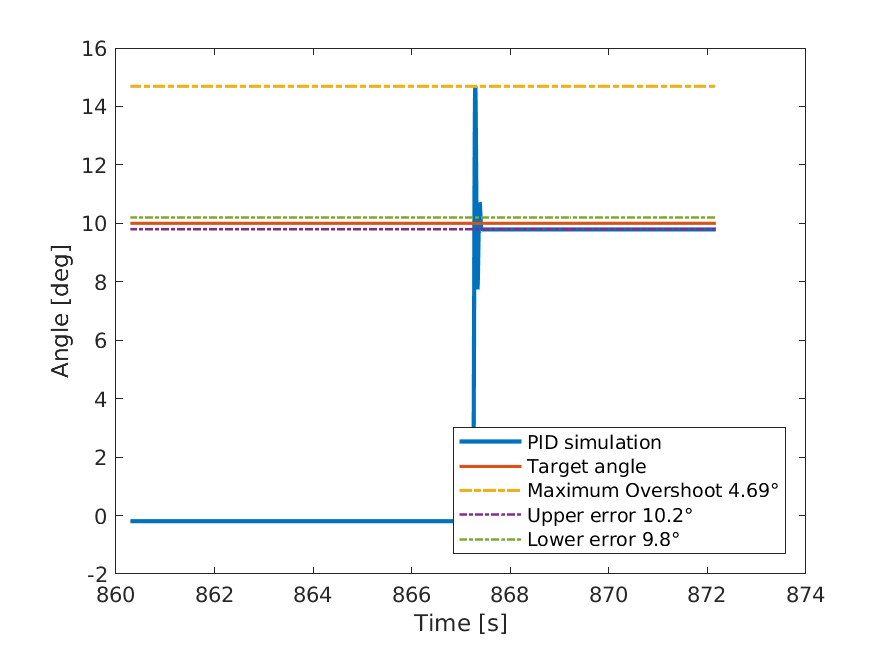
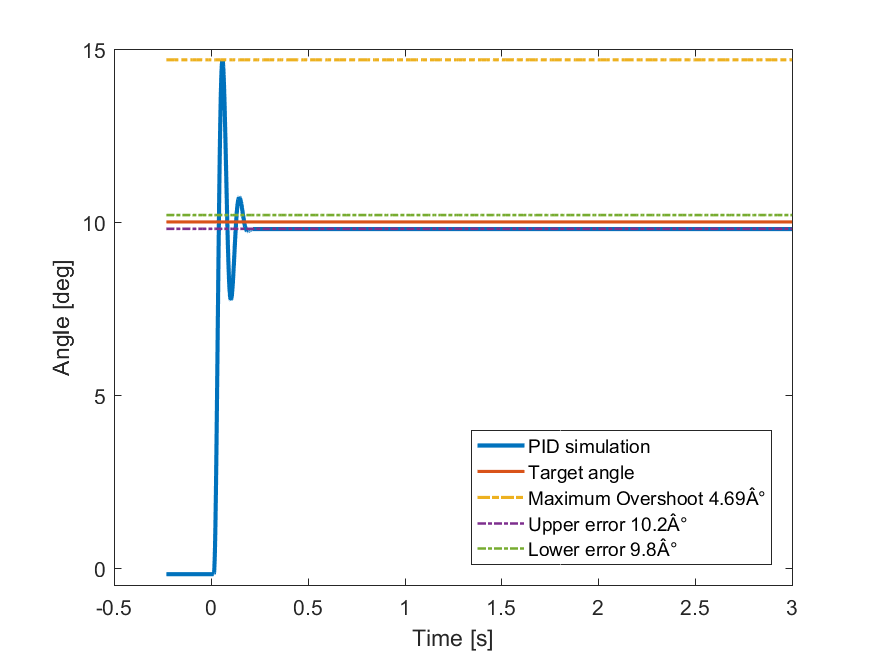
Change of the PID plots

diff --git a/LogFiles/PID_Encoder/plot_2.m b/LogFiles/PID_Encoder/plot_2.m
@@ -9,7 +9,7 @@
 % Auto-generated by MATLAB on 2018/04/14 17:48:42
 
 %% Initialize variables.
-filename = '/home/manu/Dropbox/EPFL Spring 2018/Haptic HRI/HapticHumanRobotInterfaces-Lab/LogFiles/PID_Encoder/p05i0d0003.csv';
+filename = 'C:\Users\Hannes\Desktop\Master\HapticHumanRobotInterfaces\LogFiles\PID_Encoder\p05i0d0003.csv';
 delimiter = ';';
 startRow = 2;
 
@@ -63,8 +63,8 @@ clearvars filename delimiter startRow formatSpec fileID dataArray ans;
 
 %% Generate plots
 
-time = p05i0d0003.timestamps;
-theta = p05i0d0003.paddle_pos_filtdeg;
+time = p05i0d0003.timestamps(6721:end)-867.23;
+theta = p05i0d0003.paddle_pos_filtdeg(6721:end);
 
 figure()
 plt = plot(time,theta,'LineWidth',2)
@@ -76,6 +76,8 @@ plot(time, ones(size(time))*10.2, '-.','LineWidth',1.25)
 legend('PID simulation','Target angle','Maximum Overshoot 4.69°','Upper error 10.2°','Lower error 9.8°','Location','southeast')
 xlabel('Time [s]')
 ylabel('Angle [deg]')
+xlim([-0.5 3])
+ylim([-0.5 15])
 saveas(plt,'Simulink_PID_encoder2.png')
 
 t_init = find(theta>theta(1),1);

diff --git a/LogFiles/PID_Encoder/plot_3.m b/LogFiles/PID_Encoder/plot_3.m
@@ -9,7 +9,7 @@
 % Auto-generated by MATLAB on 2018/04/14 17:50:18
 
 %% Initialize variables.
-filename = '/home/manu/Dropbox/EPFL Spring 2018/Haptic HRI/HapticHumanRobotInterfaces-Lab/LogFiles/PID_Encoder/p05i0d0008.csv';
+filename = 'C:\Users\Hannes\Desktop\Master\HapticHumanRobotInterfaces\LogFiles\PID_Encoder\p05i0d0008.csv';
 delimiter = ';';
 startRow = 2;
 
@@ -63,8 +63,8 @@ clearvars filename delimiter startRow formatSpec fileID dataArray ans;
 
 %% Generate plots
 
-time = p05i0d0008.timestamps;
-theta = p05i0d0008.paddle_pos_filtdeg;
+time = p05i0d0008.timestamps(3118:end)-815.55;
+theta = p05i0d0008.paddle_pos_filtdeg(3118:end);
 
 figure()
 plt = plot(time,theta,'LineWidth',2)
@@ -76,6 +76,8 @@ plot(time, ones(size(time))*10.2, '-.','LineWidth',1.25)
 legend('PID simulation','Target angle','Maximum Overshoot 0.65°','Upper error 10.2°','Lower error 9.8°','Location','southeast')
 xlabel('Time [s]')
 ylabel('Angle [deg]')
+xlim([-0.5 3])
+ylim([-0.5 14])
 saveas(plt,'Simulink_PID_encoder3.png')
 
 t_init = find(theta>theta(1),1);

diff --git a/LogFiles/PID_Encoder/plot_4.m b/LogFiles/PID_Encoder/plot_4.m
@@ -9,7 +9,7 @@
 % Auto-generated by MATLAB on 2018/04/14 17:52:56
 
 %% Initialize variables.
-filename = '/home/manu/Dropbox/EPFL Spring 2018/Haptic HRI/HapticHumanRobotInterfaces-Lab/LogFiles/PID_Encoder/p05i0001d0008.csv';
+filename = 'C:\Users\Hannes\Desktop\Master\HapticHumanRobotInterfaces\LogFiles\PID_Encoder\p05i0001d0008.csv';
 delimiter = ';';
 startRow = 2;
 
@@ -63,8 +63,8 @@ clearvars filename delimiter startRow formatSpec fileID dataArray ans;
 
 %% Generate plots
 
-time = p05i0001d0008.timestamps;
-theta = p05i0001d0008.paddle_pos_filtdeg;
+time = p05i0001d0008.timestamps(5567:end)-790.37;
+theta = p05i0001d0008.paddle_pos_filtdeg(5567:end);
 
 figure()
 plt = plot(time,theta,'LineWidth',2)
@@ -76,6 +76,8 @@ plot(time, ones(size(time))*10.2, '-.','LineWidth',1.25)
 legend('PID simulation','Target angle','Maximum Overshoot 1.82°','Upper error 10.2°','Lower error 9.8°','Location','southeast')
 xlabel('Time [s]')
 ylabel('Angle [deg]')
+xlim([-0.5 3])
+ylim([-0.5 14])
 saveas(plt,'Simulink_PID_encoder4.png')
 
 

diff --git a/LogFiles/PID_Hall/plot_3.m b/LogFiles/PID_Hall/plot_3.m
@@ -9,7 +9,7 @@
 % Auto-generated by MATLAB on 2018/04/14 17:50:18
 
 %% Initialize variables.
-filename = '/home/manu/Dropbox/EPFL Spring 2018/Haptic HRI/HapticHumanRobotInterfaces-Lab/LogFiles/PID_Hall/p05i0d0008.csv';
+filename = 'C:\Users\Hannes\Desktop\Master\HapticHumanRobotInterfaces\LogFiles\PID_Hall\p05i0d0008.csv';
 delimiter = ';';
 startRow = 2;
 
@@ -63,8 +63,8 @@ clearvars filename delimiter startRow formatSpec fileID dataArray ans;
 
 %% Generate plots
 
-time = p05i0d0008.timestamps;
-theta = p05i0d0008.paddle_pos_filtdeg;
+time = p05i0d0008.timestamps(2333:8343)-522.71;
+theta = p05i0d0008.paddle_pos_filtdeg(2333:8343);
 theta(time>528) = [];
 time(time>528) = [];
 
@@ -78,6 +78,8 @@ plot(time, ones(size(time))*10.2, '-.','LineWidth',1.25)
 legend('PID simulation','Target angle','Maximum Overshoot 0.52°','Upper error 10.2°','Lower error 9.8°','Location','southeast')
 xlabel('Time [s]')
 ylabel('Angle [deg]')
+xlim([-0.5 3])
+ylim([-0.5 14])
 saveas(plt,'Simulink_PID_hall3.png')
 
 t_init = find(theta>0.16,1);

diff --git a/LogFiles/PID_Hall/plot_2.m b/LogFiles/PID_Hall/plot_2.m
@@ -9,7 +9,7 @@
 % Auto-generated by MATLAB on 2018/04/14 17:48:42
 
 %% Initialize variables.
-filename = '/home/manu/Dropbox/EPFL Spring 2018/Haptic HRI/HapticHumanRobotInterfaces-Lab/LogFiles/PID_Hall/p05i0d0003.csv';
+filename = 'C:\Users\Hannes\Desktop\Master\HapticHumanRobotInterfaces\LogFiles\PID_Hall/p05i0d0003.csv';
 delimiter = ';';
 startRow = 2;
 
@@ -63,8 +63,8 @@ clearvars filename delimiter startRow formatSpec fileID dataArray ans;
 
 %% Generate plots
 
-time = p05i0d0003.timestamps;
-theta = p05i0d0003.paddle_pos_filtdeg;
+time = p05i0d0003.timestamps(3252:end)-471.9;
+theta = p05i0d0003.paddle_pos_filtdeg(3252:end);
 
 figure()
 plt = plot(time,theta,'LineWidth',2)
@@ -76,6 +76,8 @@ plot(time, ones(size(time))*10.2, '-.','LineWidth',1.25)
 legend('PID simulation','Target angle','Maximum Overshoot 4.42°','Upper error 10.2°','Lower error 9.8°','Location','southeast')
 xlabel('Time [s]')
 ylabel('Angle [deg]')
+xlim([-0.5 3])
+ylim([-0.5 15])
 saveas(plt,'Simulink_PID_hall2.png')
 
 t_init = find(theta>0.3,1);

diff --git a/LogFiles/PID_Hall/plot_4.m b/LogFiles/PID_Hall/plot_4.m
@@ -9,7 +9,7 @@
 % Auto-generated by MATLAB on 2018/04/14 17:52:56
 
 %% Initialize variables.
-filename = '/home/manu/Dropbox/EPFL Spring 2018/Haptic HRI/HapticHumanRobotInterfaces-Lab/LogFiles/PID_Hall/p05i0001d0008.csv';
+filename = 'C:\Users\Hannes\Desktop\Master\HapticHumanRobotInterfaces\LogFiles\PID_Hall\p05i0001d0008.csv';
 delimiter = ';';
 startRow = 2;
 
@@ -63,8 +63,8 @@ clearvars filename delimiter startRow formatSpec fileID dataArray ans;
 
 %% Generate plots
 
-time = p05i0001d0008.timestamps;
-theta = p05i0001d0008.paddle_pos_filtdeg;
+time = p05i0001d0008.timestamps(5993:end)-571.9;
+theta = p05i0001d0008.paddle_pos_filtdeg(5993:end);
 
 figure()
 plt = plot(time,theta,'LineWidth',2)
@@ -76,6 +76,8 @@ plot(time, ones(size(time))*10.2, '-.','LineWidth',1.25)
 legend('PID simulation','Target angle','Maximum Overshoot 1.59°','Upper error 10.2°','Lower error 9.8°','Location','southeast')
 xlabel('Time [s]')
 ylabel('Angle [deg]')
+xlim([-0.5 3])
+ylim([-0.5 14])
 saveas(plt,'Simulink_PID_hall4.png')
 
 

diff --git a/LogFiles/PID_Encoder/plot_1.m b/LogFiles/PID_Encoder/plot_1.m
@@ -9,7 +9,7 @@
 % Auto-generated by MATLAB on 2018/04/14 17:39:54
 
 %% Initialize variables.
-filename = '/home/manu/Dropbox/EPFL Spring 2018/Haptic HRI/HapticHumanRobotInterfaces-Lab/LogFiles/PID_Encoder/p01i0d0003.csv';
+filename = 'C:\Users\Hannes\Desktop\Master\HapticHumanRobotInterfaces\LogFiles\PID_Encoder\p01i0d0003.csv';
 delimiter = ';';
 startRow = 2;
 
@@ -63,8 +63,8 @@ clearvars filename delimiter startRow formatSpec fileID dataArray ans;
 
 %% Generate plots
 
-time = p01i0d0003.timestamps;
-theta = p01i0d0003.paddle_pos_filtdeg;
+time = p01i0d0003.timestamps(4251:end)-906.3;
+theta = p01i0d0003.paddle_pos_filtdeg(4251:end);
 theta(time>909.5) = [];
 time(time>909.5) = [];
 
@@ -78,6 +78,8 @@ plot(time, ones(size(time))*10.2, '-.','LineWidth',1.25)
 legend('PID simulation','Target angle','Upper error 10.2°','Lower error 9.8°','Location','southeast')
 xlabel('Time [s]')
 ylabel('Angle [deg]')
+xlim([-0.5 3])
+ylim([-0.5 14])
 saveas(plt,'Simulink_PID_encoder1.png')
 
 t_init = find(theta>theta(1),1);

diff --git a/LogFiles/PID_Hall/plot_1.m b/LogFiles/PID_Hall/plot_1.m
@@ -9,7 +9,7 @@
 % Auto-generated by MATLAB on 2018/04/14 17:39:54
 
 %% Initialize variables.
-filename = '/home/manu/Dropbox/EPFL Spring 2018/Haptic HRI/HapticHumanRobotInterfaces-Lab/LogFiles/PID_Hall/p01i0d0003.csv';
+filename = 'C:\Users\Hannes\Desktop\Master\HapticHumanRobotInterfaces\LogFiles\PID_Hall\p01i0d0003.csv';
 delimiter = ';';
 startRow = 2;
 
@@ -63,8 +63,8 @@ clearvars filename delimiter startRow formatSpec fileID dataArray ans;
 
 %% Generate plots
 
-time = p01i0d0003.timestamps;
-theta = p01i0d0003.paddle_pos_filtdeg;
+time = p01i0d0003.timestamps(4966:14984)-378;
+theta = p01i0d0003.paddle_pos_filtdeg(4966:14984);
 
 figure()
 plt = plot(time,theta,'LineWidth',2)
@@ -76,4 +76,6 @@ plot(time, ones(size(time))*10.2, '-.','LineWidth',1.25)
 legend('PID simulation','Target angle','Upper error 10.2°','Lower error 9.8°','Location','southeast')
 xlabel('Time [s]')
 ylabel('Angle [deg]')
+xlim([-0.5 3])
+ylim([-0.5 14])
 saveas(plt,'Simulink_PID_hall1.png')
